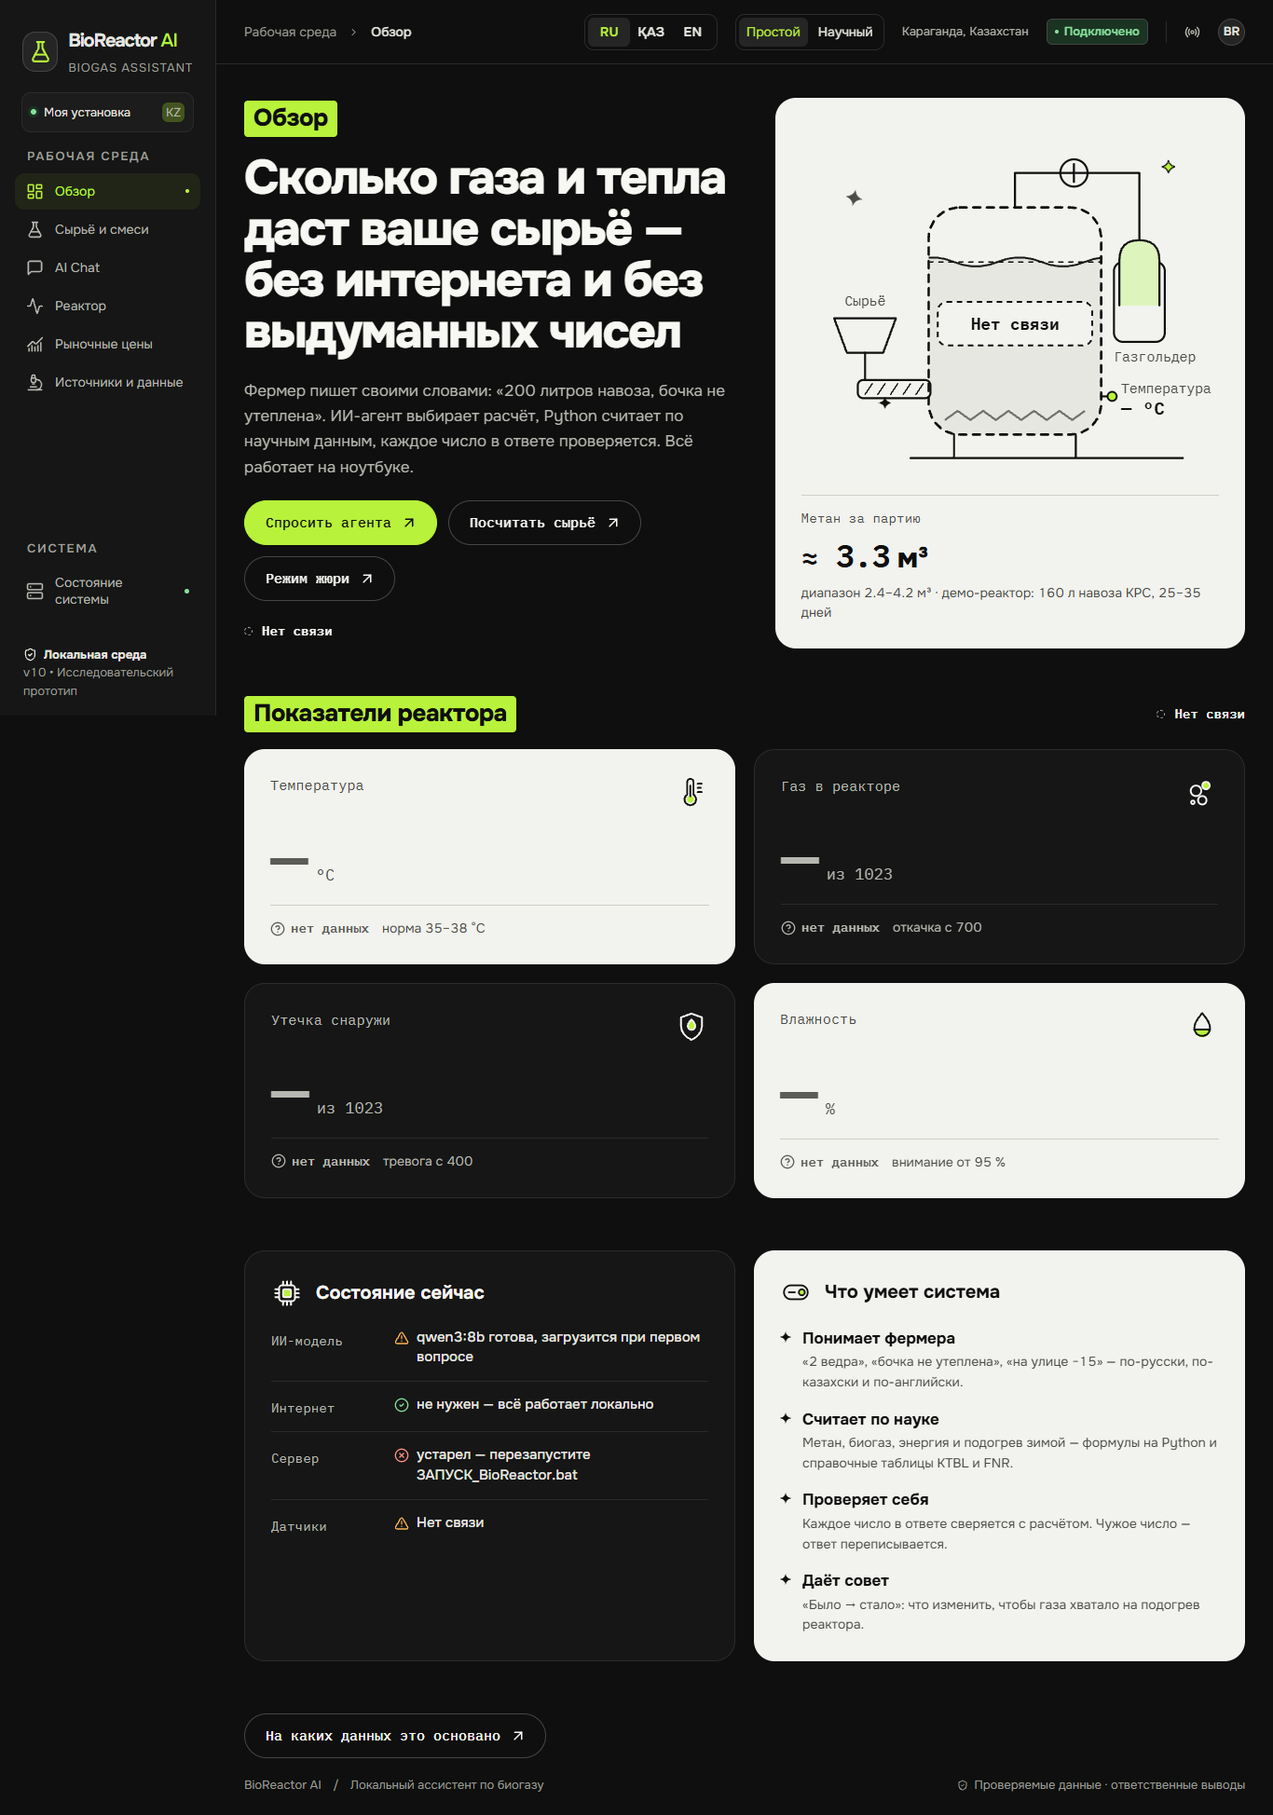
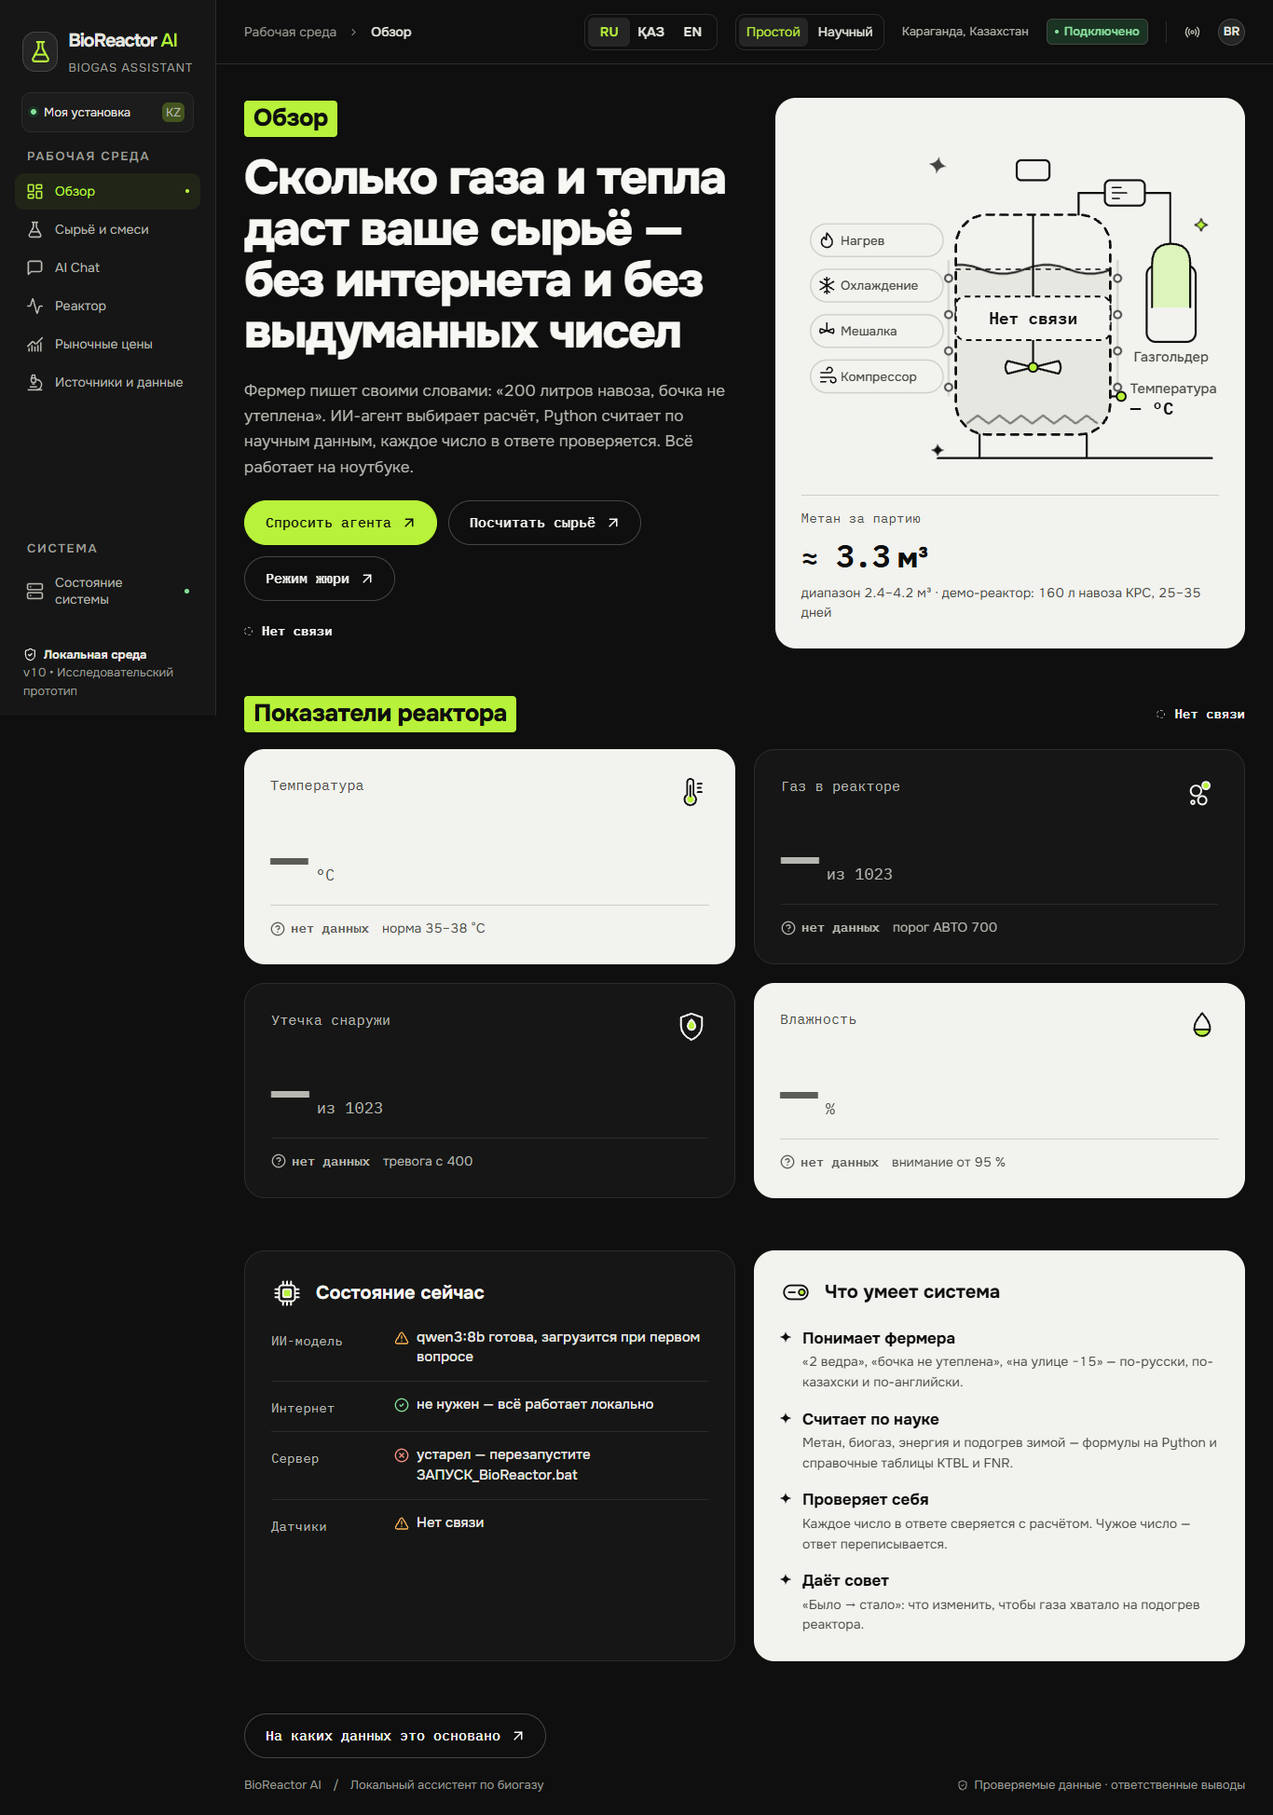
design-v3: the stand's relays are now 1 heat, 2 cool (LEDs), 3 mixer, 4 compressor (API/firmware names heat|cool|pump|auger unchanged). Illustration: no pump/auger/hopper; warm glow for heat, blue LEDs for cool, turning mixer, air/gas flow for the compressor, a legend that says «вкл» in words; all R

Changed region(s): [[0.6457, 0.0924, 0.9531, 0.2464], [0.7072, 0.4928, 0.7687, 0.5236]]

diff --git a/frontend/src/overview/LineReactor.tsx b/frontend/src/overview/LineReactor.tsx
@@ -1,59 +1,98 @@
 // design-v3 hero illustration: our own line drawing of the reactor for a light «paper» card — black outline,
-// lime accents, small ✦ sparkles. It is live: bubbles follow the gas indicator, the heater coil turns lime and the
-// pump turns only while that relay is ON; no link -> dashed, still, «Нет связи». Motion: transform/opacity only.
-import type { CSSProperties } from 'react'
+// lime accents, small ✦ sparkles. Live, from the four relays of the stand:
+//   1 heat        warm glow under the substrate     2 cool (LEDs)   blue glow along the walls
+//   3 mixer       the impeller turns                4 compressor    air/gas runs along the gas line
+// Bubbles follow the gas indicator. A legend on the left says which relay is ON in words («вкл»), not colour alone.
+// No link -> dashed, still, «Нет связи». Motion: transform/opacity/stroke-dashoffset only.
+import type { CSSProperties, ReactNode } from 'react'
 import { tr } from '../i18n'
 import type { SceneState } from './useReactorLive'
 
 const BUBBLES: [number, number, number, number, boolean][] = [   // x, r, duration s, delay s, lime
-  [168, 7, 3.4, 0, true], [196, 4, 2.8, 1.1, false], [222, 9, 3.9, 2.2, false], [250, 5, 3.1, .6, true],
-  [276, 6, 4.0, 1.7, false], [300, 4, 2.7, 2.9, true], [186, 5, 3.6, .3, false], [262, 8, 3.3, 3.4, true],
+  [188, 7, 3.4, 0, true], [206, 4, 2.8, 1.1, false], [292, 9, 3.9, 2.2, false], [228, 5, 3.1, .6, true],
+  [286, 6, 4.0, 1.7, false], [316, 4, 2.7, 2.9, true], [196, 5, 3.6, .3, false], [308, 8, 3.3, 3.4, true],
 ]
 const num = (v: number | null, digits = 0) => v == null ? '—' : v.toFixed(digits)
 
+function LegendRow({ y, on, label, children }: { y: number; on: boolean; label: string; children: ReactNode }) {
+  return <g className={`lr-legend ${on ? 'is-on' : ''}`} transform={`translate(10 ${y})`}>
+    <rect className="lr-legend-bg" x="0" y="-18" width="146" height="36" rx="18" />
+    <g className="lr-legend-icon" transform="translate(10 -9)">{children}</g>
+    <text className="lr-legend-text" x="33" y={on ? -1 : 5}>{label}</text>
+    {on && <text className="lr-legend-on" x="33" y="13">{tr('v3.on')}</text>}
+  </g>
+}
+
 export function LineReactor({ s }: { s: SceneState }) {
+  const r = s.relays
   return <svg className={`lr ${s.live ? 'is-live' : 'is-offline'}`} viewBox="0 0 460 400" role="img" aria-label={tr('ov.scene')}>
-    <defs><clipPath id="lr-barrel"><rect x="140" y="92" width="190" height="250" rx="34" /></clipPath></defs>
+    <defs>
+      <clipPath id="lr-barrel"><rect x="170" y="100" width="170" height="242" rx="34" /></clipPath>
+    </defs>
     {/* sparkles: decoration only */}
     <g className="lr-sparkles" aria-hidden="true">
-      <path className="lr-sparkle s1" d="M58 70c.8 6 4.6 10 11.4 11.4-6.8 1.4-10.6 5.4-11.4 11.4-.8-6-4.6-10-11.4-11.4C53.4 80 57.2 76 58 70Z" />
-      <path className="lr-sparkle s2" d="M404 40c.5 3.8 2.9 6.3 7.2 7.2-4.3.9-6.7 3.4-7.2 7.2-.5-3.8-2.9-6.3-7.2-7.2 4.3-.9 6.7-3.4 7.2-7.2Z" />
-      <path className="lr-sparkle s3" d="M92 300c.5 3.8 2.9 6.3 7.2 7.2-4.3.9-6.7 3.4-7.2 7.2-.5-3.8-2.9-6.3-7.2-7.2 4.3-.9 6.7-3.4 7.2-7.2Z" />
+      <path className="lr-sparkle s1" d="M150 34c.8 6 4.6 10 11.4 11.4-6.8 1.4-10.6 5.4-11.4 11.4-.8-6-4.6-10-11.4-11.4C145.4 44 149.2 40 150 34Z" />
+      <path className="lr-sparkle s2" d="M440 104c.5 3.8 2.9 6.3 7.2 7.2-4.3.9-6.7 3.4-7.2 7.2-.5-3.8-2.9-6.3-7.2-7.2 4.3-.9 6.7-3.4 7.2-7.2Z" />
+      <path className="lr-sparkle s3" d="M150 352c.5 3.8 2.9 6.3 7.2 7.2-4.3.9-6.7 3.4-7.2 7.2-.5-3.8-2.9-6.3-7.2-7.2 4.3-.9 6.7-3.4 7.2-7.2Z" />
+    </g>
+    {/* relay 1: warm glow under the reactor */}
+    <ellipse className={`lr-heat-glow ${r.heat ? 'is-on' : ''}`} cx="255" cy="336" rx="112" ry="30" />
+    {/* relay 2: cooling LEDs along the walls, blue glow when on */}
+    <g className={`lr-cool ${r.cool ? 'is-on' : ''}`}>
+      <rect className="lr-cool-glow" x="156" y="140" width="198" height="170" rx="40" />
+      <path className="lr-cool-line" d="M162 150 V 300 M348 150 V 300" />
+      {[170, 210, 250, 290].map(y => <g key={y}><circle cx="162" cy={y} r="4" /><circle cx="348" cy={y} r="4" /></g>)}
     </g>
     {/* substrate inside the barrel */}
     <g clipPath="url(#lr-barrel)">
-      <path className="lr-substrate" d="M120 152 q 24 -10 48 0 t 48 0 t 48 0 t 48 0 t 48 0 V 360 H 120 Z" />
+      <path className="lr-substrate" d="M150 160 q 24 -10 48 0 t 48 0 t 48 0 t 48 0 t 48 0 V 360 H 150 Z" />
       <g className={`lr-bubbles rate-${s.rate}`}>
-        {BUBBLES.map(([x, r, dur, delay, lime], i) => <circle key={i} className={`lr-bubble ${lime ? 'is-lime' : ''}`} cx={x} cy={318} r={r}
+        {BUBBLES.map(([x, rad, dur, delay, lime], i) => <circle key={i} className={`lr-bubble ${lime ? 'is-lime' : ''}`} cx={x} cy={318} r={rad}
           style={{ animationDuration: `${dur}s`, animationDelay: `${delay}s` } as CSSProperties} />)}
       </g>
-      <path className={`lr-heater ${s.relays.heat ? 'is-on' : ''}`} d="M158 326 l 14 -10 l 14 10 l 14 -10 l 14 10 l 14 -10 l 14 10 l 14 -10 l 14 10 l 14 -10 l 14 10 l 14 -10" />
+      <path className={`lr-heater ${r.heat ? 'is-on' : ''}`} d="M182 330 l 12 -9 l 12 9 l 12 -9 l 12 9 l 12 -9 l 12 9 l 12 -9 l 12 9 l 12 -9 l 12 9 l 12 -9 l 12 9" />
+      {/* relay 3: the mixer — shaft from the motor, impeller in the substrate */}
+      <path className="lr-line" d="M255 60 V 262" />
+      <g className={`lr-impeller ${r.mixer ? 'is-on' : ''}`}>
+        <path className="lr-line lr-blade" d="M255 268 l 28 -7 q 5 7 0 14 Z M255 268 l -28 7 q -5 -7 0 -14 Z" />
+        <circle className="lr-dot" cx="255" cy="268" r="5" />
+      </g>
     </g>
-    <rect className="lr-line lr-barrel" x="140" y="92" width="190" height="250" rx="34" />
-    <path className="lr-line lr-thin" d="M140 152 H 330" strokeDasharray="5 6" />
+    <rect className="lr-line lr-barrel" x="170" y="100" width="170" height="242" rx="34" />
+    <path className="lr-line lr-thin" d="M170 160 H 340" strokeDasharray="5 6" />
+    {/* mixer motor on the lid */}
+    <rect className={`lr-line lr-motor ${r.mixer ? 'is-on' : ''}`} x="237" y="40" width="36" height="22" rx="5" />
     {/* legs and ground */}
-    <path className="lr-line" d="M168 342 v 26 M302 342 v 26 M120 368 H 420" />
+    <path className="lr-line" d="M196 342 v 26 M314 342 v 26 M150 368 H 452" />
     {/* temperature probe */}
-    <path className="lr-line" d="M330 300 H 340" /><circle className="lr-dot" cx="342" cy="300" r="5" />
-    <text className="lr-label" x="352" y="296">{tr('ov.temp')}</text>
-    <text className="lr-value" x="352" y="320">{num(s.temp, 1)} °C</text>
-    {/* gas line, pump, gas holder */}
-    <path className="lr-line" d="M235 92 V 54 H 372 V 128" />
-    <g className={`lr-pump ${s.relays.pump ? 'is-on' : ''}`}>
-      <circle className="lr-line lr-pump-body" cx="300" cy="54" r="15" />
-      <g className="lr-impeller"><path className="lr-line" d="M300 44v20M290 54h20" /></g>
+    <path className="lr-line" d="M340 300 H 350" /><circle className="lr-dot" cx="352" cy="300" r="5" />
+    <text className="lr-label" x="362" y="296">{tr('ov.temp')}</text>
+    <text className="lr-value" x="362" y="320">{num(s.temp, 1)} °C</text>
+    {/* relay 4: compressor on the gas line -> gas holder; the flow runs only while it is ON */}
+    <g className={`lr-pipe ${r.compressor ? 'is-flowing' : ''}`}>
+      <path className="lr-line" d="M305 100 V 76 H 406 V 132" />
+      <path className="lr-flow" d="M305 100 V 76 H 406 V 132" />
     </g>
-    <rect className="lr-line" x="344" y="152" width="56" height="88" rx="10" />
-    <path className="lr-line lr-bell" d="M350 200 V 150 q 0 -22 22 -22 q 22 0 22 22 V 200" style={{ transform: `translateY(${(-(s.gas * 20)).toFixed(1)}px)` }} />
-    <text className="lr-label" x="344" y="262">{tr('ov.holder')}</text>
-    {/* feed: hopper and auger */}
-    <path className="lr-line" d="M36 214 H 104 L 90 252 H 50 Z" />
-    <g className={`lr-auger ${s.relays.auger ? 'is-on' : ''}`}>
-      <rect className="lr-line" x="62" y="282" width="80" height="20" rx="6" />
-      <path className="lr-line lr-thin lr-flights" d="M70 298 l 8 -12 M84 298 l 8 -12 M98 298 l 8 -12 M112 298 l 8 -12 M126 298 l 8 -12" />
+    <g className={`lr-compressor ${r.compressor ? 'is-on' : ''}`}>
+      <rect className="lr-line lr-comp-body" x="334" y="62" width="44" height="28" rx="6" />
+      <path className="lr-line lr-thin lr-comp-air" d="M342 70 h 10 M342 76 h 16 M342 82 h 8" />
     </g>
-    <path className="lr-line" d="M70 252 V 282" />
-    <text className="lr-label" x="70" y="200" textAnchor="middle">{tr('ov.feed')}</text>
-    {!s.live && <g className="lr-nolink" role="status"><rect x="150" y="196" width="170" height="48" rx="10" /><text x="235" y="227" textAnchor="middle">{tr('ov.noLink')}</text></g>}
+    <rect className="lr-line" x="380" y="156" width="54" height="84" rx="10" />
+    <path className="lr-line lr-bell" d="M386 202 V 154 q 0 -22 21 -22 q 21 0 21 22 V 202" style={{ transform: `translateY(${(-(s.gas * 20)).toFixed(1)}px)` }} />
+    <text className="lr-label" x="407" y="262" textAnchor="middle">{tr('ov.holder')}</text>
+    {/* legend: the four relays of the stand, ON said in words */}
+    <LegendRow y={128} on={r.heat} label={tr('ov.heat')}>
+      <path className="lr-ico" d="M8 1c3 4 6 6.5 6 10a6 6 0 0 1-12 0c0-2.4 1.4-4 3-5.4.4 1.7 1.3 2.6 2.4 3C7 6 7.6 3.6 8 1Z" />
+    </LegendRow>
+    <LegendRow y={178} on={r.cool} label={tr('ov.cool')}>
+      <path className="lr-ico" d="M8 0v18M0.5 4.5l15 9M15.5 4.5l-15 9M5 1.5l3 2 3-2M5 16.5l3-2 3 2" />
+    </LegendRow>
+    <LegendRow y={228} on={r.mixer} label={tr('ov.mixer')}>
+      <path className="lr-ico" d="M8 0v8M8 9l7-2.5q1.5 2.5 0 5L8 9Zm0 0-7 2.5q-1.5-2.5 0-5L8 9Z" />
+    </LegendRow>
+    <LegendRow y={278} on={r.compressor} label={tr('ov.auger')}>
+      <path className="lr-ico" d="M1 5h10a3 3 0 1 0-3-3M1 10h14a3 3 0 1 1-3 3M1 15h6" />
+    </LegendRow>
+    {!s.live && <g className="lr-nolink" role="status"><rect x="170" y="190" width="170" height="48" rx="10" /><text x="255" y="221" textAnchor="middle">{tr('ov.noLink')}</text></g>}
   </svg>
 }

diff --git a/frontend/src/overview/overview.css b/frontend/src/overview/overview.css
@@ -75,17 +75,44 @@
 .lr-bubbles.rate-low .lr-bubble:nth-child(3n) { display: none; }
 .lr-bubbles.rate-low .lr-bubble { animation-duration: 4.6s !important; }
 .lr-bubbles.rate-high .lr-bubble { animation-duration: 2.4s !important; }
-.lr-heater { fill: none; stroke: var(--ink); stroke-width: 2.25; stroke-linejoin: round; opacity: .55; transition: stroke var(--dur) var(--ease-out), opacity var(--dur) var(--ease-out); }
-.lr-heater.is-on { stroke: var(--ink); opacity: 1; stroke-width: 3; }
-.lr-pump.is-on .lr-pump-body { fill: var(--accent); }
-.lr-impeller { transform-box: fill-box; transform-origin: center; }
-.lr-pump.is-on .lr-impeller { animation: lr-spin 1.4s linear infinite; }
+.lr-heater { fill: none; stroke: var(--ink); stroke-width: 2.25; stroke-linejoin: round; opacity: .5; transition: opacity var(--dur) var(--ease-out), stroke-width var(--dur) var(--ease-out); }
+.lr-heater.is-on { opacity: 1; stroke-width: 3; }
+/* relay 1 heat: a warm glow under the reactor */
+.lr-heat-glow { fill: var(--warn); opacity: 0; filter: blur(14px); transition: opacity .5s var(--ease-out); }
+.lr-heat-glow.is-on { opacity: .55; animation: lr-breathe 2.6s ease-in-out infinite; }
+@keyframes lr-breathe { 50% { opacity: .35; } }
+/* relay 2 cool (LEDs on the stand): blue glow along the walls */
+.lr-cool-glow { fill: none; stroke: var(--info); stroke-width: 14; opacity: 0; filter: blur(8px); transition: opacity .5s var(--ease-out); }
+.lr-cool-line { fill: none; stroke: var(--paper-line); stroke-width: 2; }
+.lr-cool circle { fill: var(--paper); stroke: var(--ink); stroke-width: 1.5; transition: fill var(--dur) var(--ease-out); }
+.lr-cool.is-on .lr-cool-glow { opacity: .55; }
+.lr-cool.is-on circle { fill: var(--info); }
+/* relay 3 mixer: the impeller turns */
+.lr-blade { fill: var(--paper); }
+.lr-impeller { transform-box: view-box; transform-origin: 255px 268px; }
+.lr-impeller.is-on { animation: lr-spin 1.6s linear infinite; }
+.lr-impeller.is-on .lr-blade { fill: var(--accent); }
+.lr-motor { fill: var(--paper); transition: fill var(--dur) var(--ease-out); }
+.lr-motor.is-on { fill: var(--accent); }
 @keyframes lr-spin { to { transform: rotate(360deg); } }
+/* relay 4 compressor: air/gas runs along the gas line */
+.lr-comp-body { fill: var(--paper); transition: fill var(--dur) var(--ease-out); }
+.lr-compressor.is-on .lr-comp-body { fill: var(--accent); }
+.lr-compressor.is-on .lr-comp-air { animation: lr-air .9s linear infinite; }
+@keyframes lr-air { 50% { transform: translateX(4px); opacity: .5; } }
+.lr-flow { fill: none; stroke: var(--accent); stroke-width: 4; stroke-linecap: round; stroke-dasharray: 3 14; opacity: 0; }
+.lr-pipe.is-flowing .lr-flow { opacity: 1; animation: lr-flow 1s linear infinite; }
+@keyframes lr-flow { to { stroke-dashoffset: -17; } }
 .lr-bell { fill: color-mix(in oklch, var(--accent) 35%, var(--paper)); transition: transform 1.2s var(--ease-out); }
-.lr-auger.is-on .lr-flights { animation: lr-auger .7s linear infinite; }
-@keyframes lr-auger { to { transform: translateX(14px); } }
+/* legend of the four relays: lime pill + the word «вкл» when ON */
+.lr-legend-bg { fill: var(--paper); stroke: var(--paper-line); stroke-width: 1.5; transition: fill var(--dur) var(--ease-out), stroke var(--dur) var(--ease-out); }
+.lr-legend.is-on .lr-legend-bg { fill: var(--accent); stroke: var(--ink); }
+.lr-ico { fill: none; stroke: var(--ink); stroke-width: 1.6; stroke-linecap: round; stroke-linejoin: round; }
+.lr-legend-text { fill: var(--ink); font-family: var(--font-sans); font-size: 14px; font-weight: 600; }
+.lr-legend:not(.is-on) .lr-legend-text { fill: var(--ink-muted); font-weight: 500; }
+.lr-legend-on { fill: var(--ink); font-family: var(--font-mono); font-size: 13px; font-weight: 600; }
 .lr-dot { fill: var(--accent); stroke: var(--ink); stroke-width: 2; }
-.lr-label { fill: var(--ink-muted); font-family: var(--font-mono); font-size: 15px; }
+.lr-label { fill: var(--ink-muted); font-family: var(--font-sans); font-size: 15px; font-weight: 500; }
 .lr-value { fill: var(--ink); font-family: var(--font-mono); font-size: 20px; font-weight: 600; }
 .lr-sparkle { fill: var(--ink); transform-box: fill-box; transform-origin: center; }
 .lr-sparkle.s2 { fill: var(--accent); stroke: var(--ink); stroke-width: 1.25; }
@@ -108,6 +135,7 @@
   .v3-system dl > div { grid-template-columns: 1fr; gap: 4px; }
 }
 @media (prefers-reduced-motion: reduce) {
-  .lr-substrate, .lr-bubble, .lr-impeller, .lr-flights, .lr-sparkle, .v3-live-dot { animation: none !important; }
+  .lr-substrate, .lr-bubble, .lr-impeller, .lr-comp-air, .lr-flow, .lr-heat-glow, .lr-sparkle, .v3-live-dot { animation: none !important; }
+  .lr-pipe.is-flowing .lr-flow { stroke-dasharray: none; opacity: .6; }
   .lr-bubble { opacity: 0 !important; }
 }

diff --git a/frontend/src/pages/Reactor.tsx b/frontend/src/pages/Reactor.tsx
@@ -3,7 +3,7 @@
 // The page only shows what the Pi reports. Every manual command is a person's button + a confirmation; E-STOP is one
 // click with no confirmation. The AI agent reads the same data and never presses buttons.
 import { useCallback, useEffect, useRef, useState, type ReactNode } from 'react'
-import { AlertOctagon, AlertTriangle, ArrowRight, Bot, Cable, CheckCircle2, Cog, Cpu, Droplets, Fan, Flame, Gavel, HelpCircle, Laptop, Network, OctagonX, PlugZap, Power, RadioTower, RefreshCw, RotateCcw, ShieldAlert, SlidersHorizontal, Thermometer, Unplug, Wifi, Wind, Wrench, XCircle } from 'lucide-react'
+import { AlertOctagon, AlertTriangle, ArrowRight, Bot, Cable, CheckCircle2, Cog, Cpu, Droplets, Fan, Flame, Gavel, HelpCircle, Laptop, Network, OctagonX, PlugZap, Power, RadioTower, RefreshCw, RotateCcw, ShieldAlert, SlidersHorizontal, Snowflake, Thermometer, Unplug, Wifi, Wind, Wrench, XCircle } from 'lucide-react'
 import { CartesianGrid, Line, LineChart, ReferenceLine, ResponsiveContainer, Tooltip, XAxis, YAxis } from 'recharts'
 import { ALARM_CODES, LIMITS, reactorApi, RELAYS, SENSORS, type Alarm, type CheckResult, type CommandResult, type HistoryPoint, type JournalItem, type Level, type LimitName, type Limits, type ReactorStatus, type RelayName, type SensorName, type SimulatorSwitch } from '../reactorApi'
 import { tr } from '../i18n'
@@ -12,7 +12,8 @@ import { chartColors } from '../theme'
 
 const JURY_KEY = 'bioreactor-reactor-jury'
 const ICONS: Record<SensorName, typeof Thermometer> = { temp_c: Thermometer, rh_pct: Droplets, gas_in: Wind, gas_out: ShieldAlert }
-const RELAY_ICONS: Record<RelayName, typeof Flame> = { heat: Flame, cool: Fan, pump: Power, auger: Cog }
+// relay 1 heat, 2 cool, 3 mixer (API name pump), 4 compressor (API name auger)
+const RELAY_ICONS: Record<RelayName, typeof Flame> = { heat: Flame, cool: Snowflake, pump: RefreshCw, auger: Wind }
 const DIGITS: Record<SensorName, number> = { temp_c: 1, rh_pct: 1, gas_in: 0, gas_out: 0 }
 // Same ranges as validSettings() in the sketch; the step is the encoder's step on the Arduino screen
 const LIMIT_INPUT: Record<LimitName, { min: number; max: number; step: number }> = {

diff --git a/frontend/tests/reactor.test.tsx b/frontend/tests/reactor.test.tsx
@@ -60,13 +60,14 @@ describe('Reactor page', () => {
     expect(await screen.findByText('ДАТЧИКИ: RASPBERRY PI (172.20.10.3:8780) → ВИРТУАЛЬНЫЙ ARDUINO')).toBeInTheDocument()
   })
 
-  it('four relays incl. the auger; asks for confirmation; cancel sends nothing', async () => {
+  it('four relays (4 = compressor, API name auger); asks for confirmation; cancel sends nothing', async () => {
     mockApi()
     const relay = vi.spyOn(reactorApi, 'relay').mockResolvedValue({ ok: true, reason: null })
     render(<Reactor />)
-    expect(await screen.findByTestId('rx-relay-auger')).toHaveTextContent('Шнек (мотор)')
+    expect(await screen.findByTestId('rx-relay-auger')).toHaveTextContent('Компрессор')
     fireEvent.click(screen.getByTestId('rx-relay-button-auger'))
-    expect(screen.getByTestId('rx-confirm').textContent).toMatch(/Включить: Шнек \(мотор\)\?.*нет рук/)
+    expect(screen.getByTestId('rx-confirm').textContent).toMatch(/Включить: Компрессор\?.*через 10 мин/)
+    expect(screen.getByTestId('rx-relay-pump')).toHaveTextContent('Мешалка')
     fireEvent.click(screen.getByText('Отмена'))
     expect(relay).not.toHaveBeenCalled()
     fireEvent.click(screen.getByTestId('rx-relay-button-heat'))

diff --git a/frontend/src/overview/useReactorLive.ts b/frontend/src/overview/useReactorLive.ts
@@ -69,7 +69,8 @@ export interface SceneState {
   heat: number             // 0..1
   gas: number              // 0..1 of the pump threshold
   rate: 'still' | 'low' | 'mid' | 'high'
-  relays: { heat: boolean; cool: boolean; pump: boolean; auger: boolean }
+  // relay 1 heat, 2 cool (LEDs on the stand), 3 mixer, 4 compressor. The API/firmware names stay heat|cool|pump|auger.
+  relays: { heat: boolean; cool: boolean; mixer: boolean; compressor: boolean }
   leak: boolean
 }
 
@@ -85,7 +86,7 @@ export function sceneState(status: ReactorStatus | null): SceneState {
     gas: live ? gasShare(gasIn, status?.limits?.gas_in_limit) : 0,
     rate: bubbleRate(gasIn, live),
     relays: { heat: live && Boolean(status?.relays.heat.on), cool: live && Boolean(status?.relays.cool.on),
-              pump: live && Boolean(status?.relays.pump.on), auger: live && Boolean(status?.relays.auger.on) },
+              mixer: live && Boolean(status?.relays.pump.on), compressor: live && Boolean(status?.relays.auger.on) },
     leak: Boolean(status?.arduino_alarms?.leak),
   }
 }
